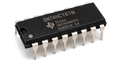
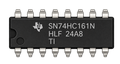
fix(a9): correct 74HC161 visual asset orientation

diff --git a/frontend/src/components/parts/__tests__/BinaryCounter74HC161Part.raster.test.jsx b/frontend/src/components/parts/__tests__/BinaryCounter74HC161Part.raster.test.jsx
@@ -20,8 +20,8 @@ import { createSimulationRuntimeSession, runSimulationWithRuntime, SIMULATION_ST
 import { Signal } from '../../../simulator/signals.js'
 
 /**
- * A9-COUNTER1 — 74HC161 DIP-16 : asset FROZEN / CSA LOCKED, catalogue, PhysicalContacts
- * NORMALISES (le Founder est une photographie en perspective : aucun pixel-probe), renderer,
+ * A9-COUNTER1-VIS-CORR-001 — 74HC161 DIP-16 : asset FROZEN / CSA LOCKED, catalogue, PhysicalContacts
+ * NORMALISES (le Founder est un rendu horizontal top-down PDIP-16, Founder PASS : aucun pixel-probe), renderer,
  * assembly, insertion breadboard réelle.
  */
 
@@ -32,9 +32,9 @@ const asset = name => resolve(ASSET_DIR, name)
 const manifest = () => JSON.parse(readFileSync(asset('manifest.json'), 'utf8'))
 const hash = data => createHash('sha256').update(data).digest('hex')
 const src = (...p) => readFileSync(resolve(here, '../../..', ...p), 'utf8')
[6 lines of base64/hex data omitted]
 const PACK = [
   'ASSET-INTEGRITY.json', 'FOUNDER-ASSET.json', 'README.md', 'README.txt', 'SHA256SUMS.txt',
   'counter-74hc161.default.1x.png', 'counter-74hc161.default.1x.webp', 'counter-74hc161.default.3x.png', 'counter-74hc161.default.3x.webp',
@@ -143,10 +143,10 @@ describe('A9-COUNTER1 — CTR-35 / CTR-36 asset pack FROZEN / CSA LOCKED', () =>
 
   it('CTR-36: FOUNDER-ASSET and manifest identity (SN74HC161N, PDIP-16, FOUNDER_PASS, same SHA)', () => {
     const founder = JSON.parse(readFileSync(asset('FOUNDER-ASSET.json'), 'utf8'))
-    expect(founder).toMatchObject({ ticket: 'A9-COUNTER1', reference: 'SN74HC161N', package: 'PDIP-16', status: 'FOUNDER_PASS', sha256: FOUNDER_SHA })
+    expect(founder).toMatchObject({ ticket: 'A9-COUNTER1-VIS-CORR-001', reference: 'SN74HC161N', package: 'PDIP-16', status: 'FOUNDER_PASS', sha256: FOUNDER_SHA })
     const m = manifest()
-    expect(m).toMatchObject({ id: 'counter-74hc161', ticket: 'A9-COUNTER1', family: '74HC161', pins: 16 })
-    expect(m.founderReference).toEqual({ file: 'counter-74hc161.founder-reference.png', status: 'FOUNDER_PASS', sha256: FOUNDER_SHA })
+    expect(m).toMatchObject({ id: 'counter-74hc161', ticket: 'A9-COUNTER1-VIS-CORR-001', family: '74HC161', pins: 16 })
+    expect(m.founderReference).toEqual({ file: 'counter-74hc161.founder-reference.png', status: 'FOUNDER_PASS', sha256: FOUNDER_SHA, visualCorrection: 'horizontal top-down PDIP-16; replaces oblique Founder raster' })
     expect(readFileSync(asset('README.md'), 'utf8')).toBe(readFileSync(asset('README.txt'), 'utf8'))
   })
 

diff --git a/frontend/public/assets/components/counter-74hc161/README.md b/frontend/public/assets/components/counter-74hc161/README.md
@@ -1,18 +1,25 @@
-# SN74HC161N — A9-COUNTER1 — CSA LOCKED ASSET
+# SN74HC161N — A9-COUNTER1-VIS-CORR-001 — CSA LOCKED ASSET
 
 Reference: Texas Instruments SN74HC161N
 Package: PDIP-16 (N)
 Founder visual status: PASS
+Correction scope: VISUAL ONLY
 Runtime canvas: 120 × 64 (1x), 360 × 192 (3x)
 Runtime formats: PNG + lossless WebP
-Physical contacts: 16, locked in manifest.json
+Physical contacts: 16, UNCHANGED from A9-COUNTER1
 Electrical pitch: 12 px
+
+Correction:
+- replaces the oblique/perspective runtime appearance with a horizontal top-down PDIP-16;
+- preserves the existing 16 PhysicalContacts and pinout;
+- does not authorize any change to BINARY_COUNTER_74HC161 logic, timed state,
+  Scheduler, simulation registries, electrical semantics, or functional tests.
 
 Pinout:
 1 MR/CLR, 2 CP/CLK, 3 D0/A, 4 D1/B, 5 D2/C, 6 D3/D,
 7 CEP/ENP, 8 GND, 9 PE/LOAD, 10 CET/ENT, 11 Q3/QD,
 12 Q2/QC, 13 Q1/QB, 14 Q0/QA, 15 TC/RCO, 16 VCC.
 
-The Founder reference is preserved bit-identically. Runtime derivatives are
-isotropically normalized from that approved source. Electrical contact geometry
-is stored separately from photographic perspective.
+The corrected Founder source is preserved bit-identically in this pack.
+The 120x64 runtime raster received Founder PASS. The 3x derivative is generated
+from that approved runtime geometry. Electrical contact geometry remains separate.
